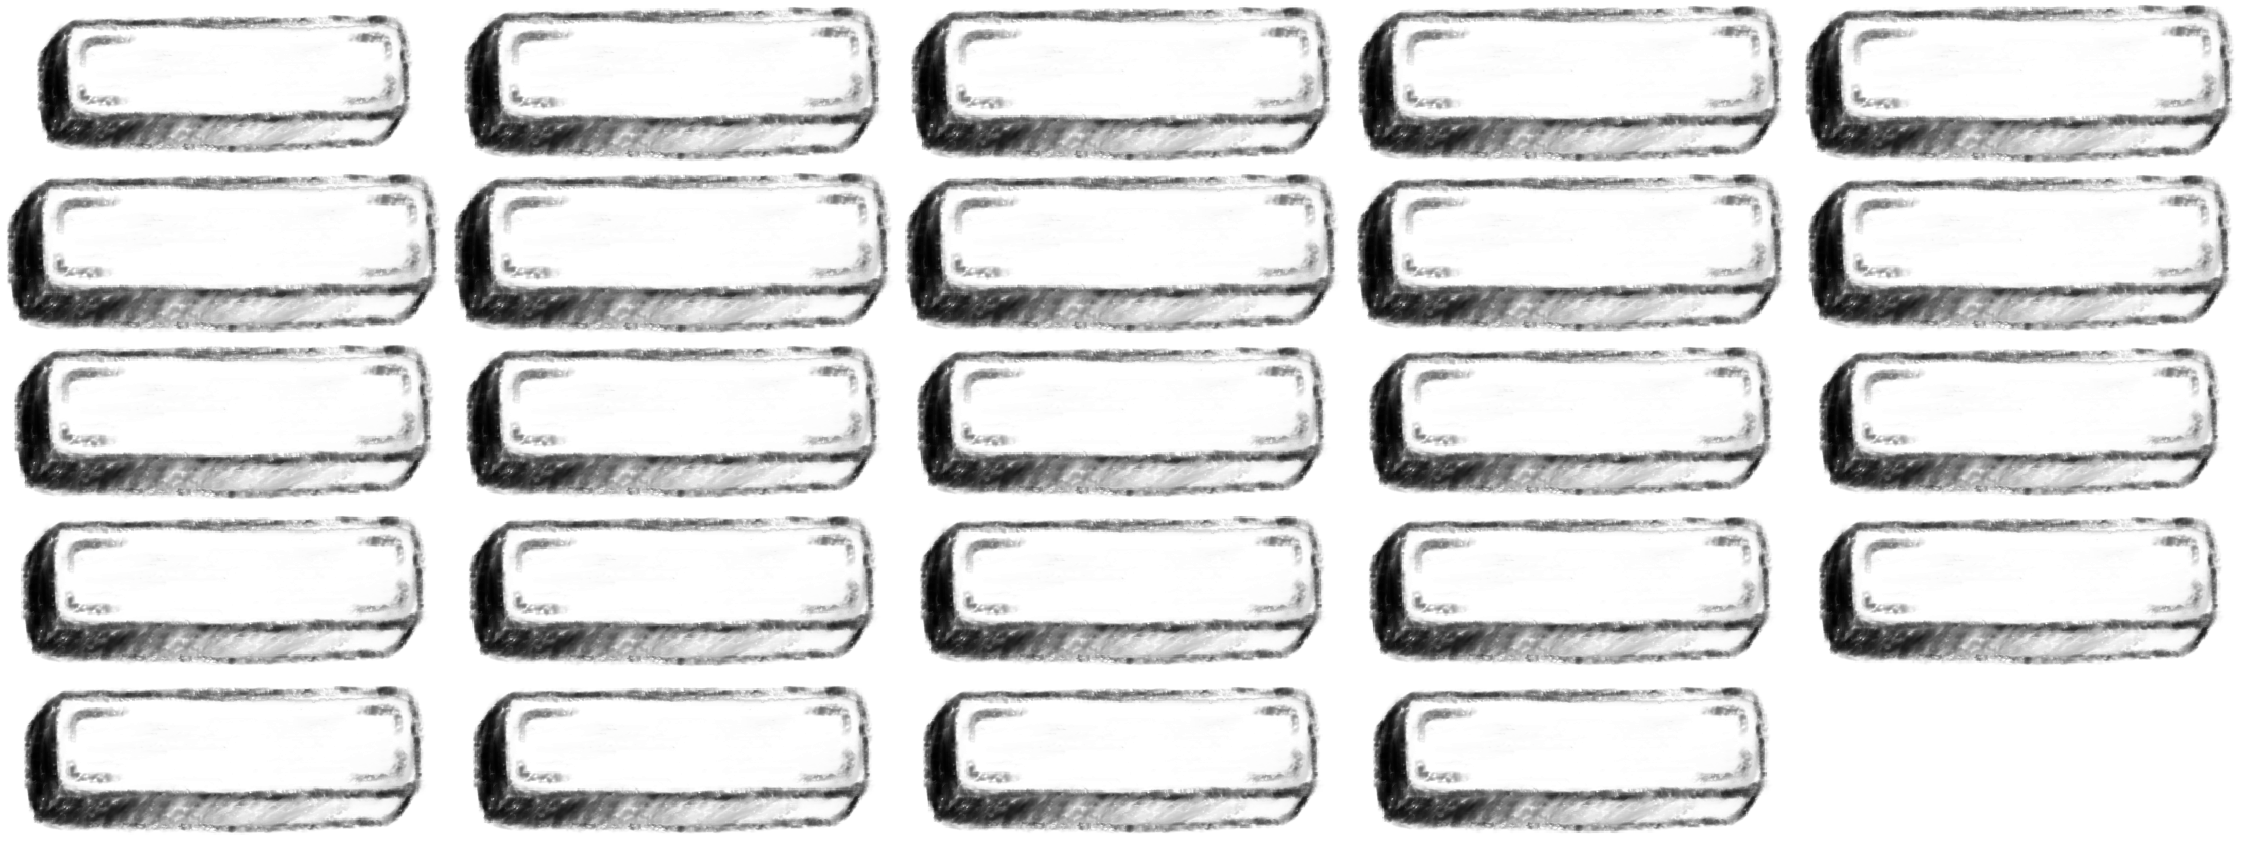
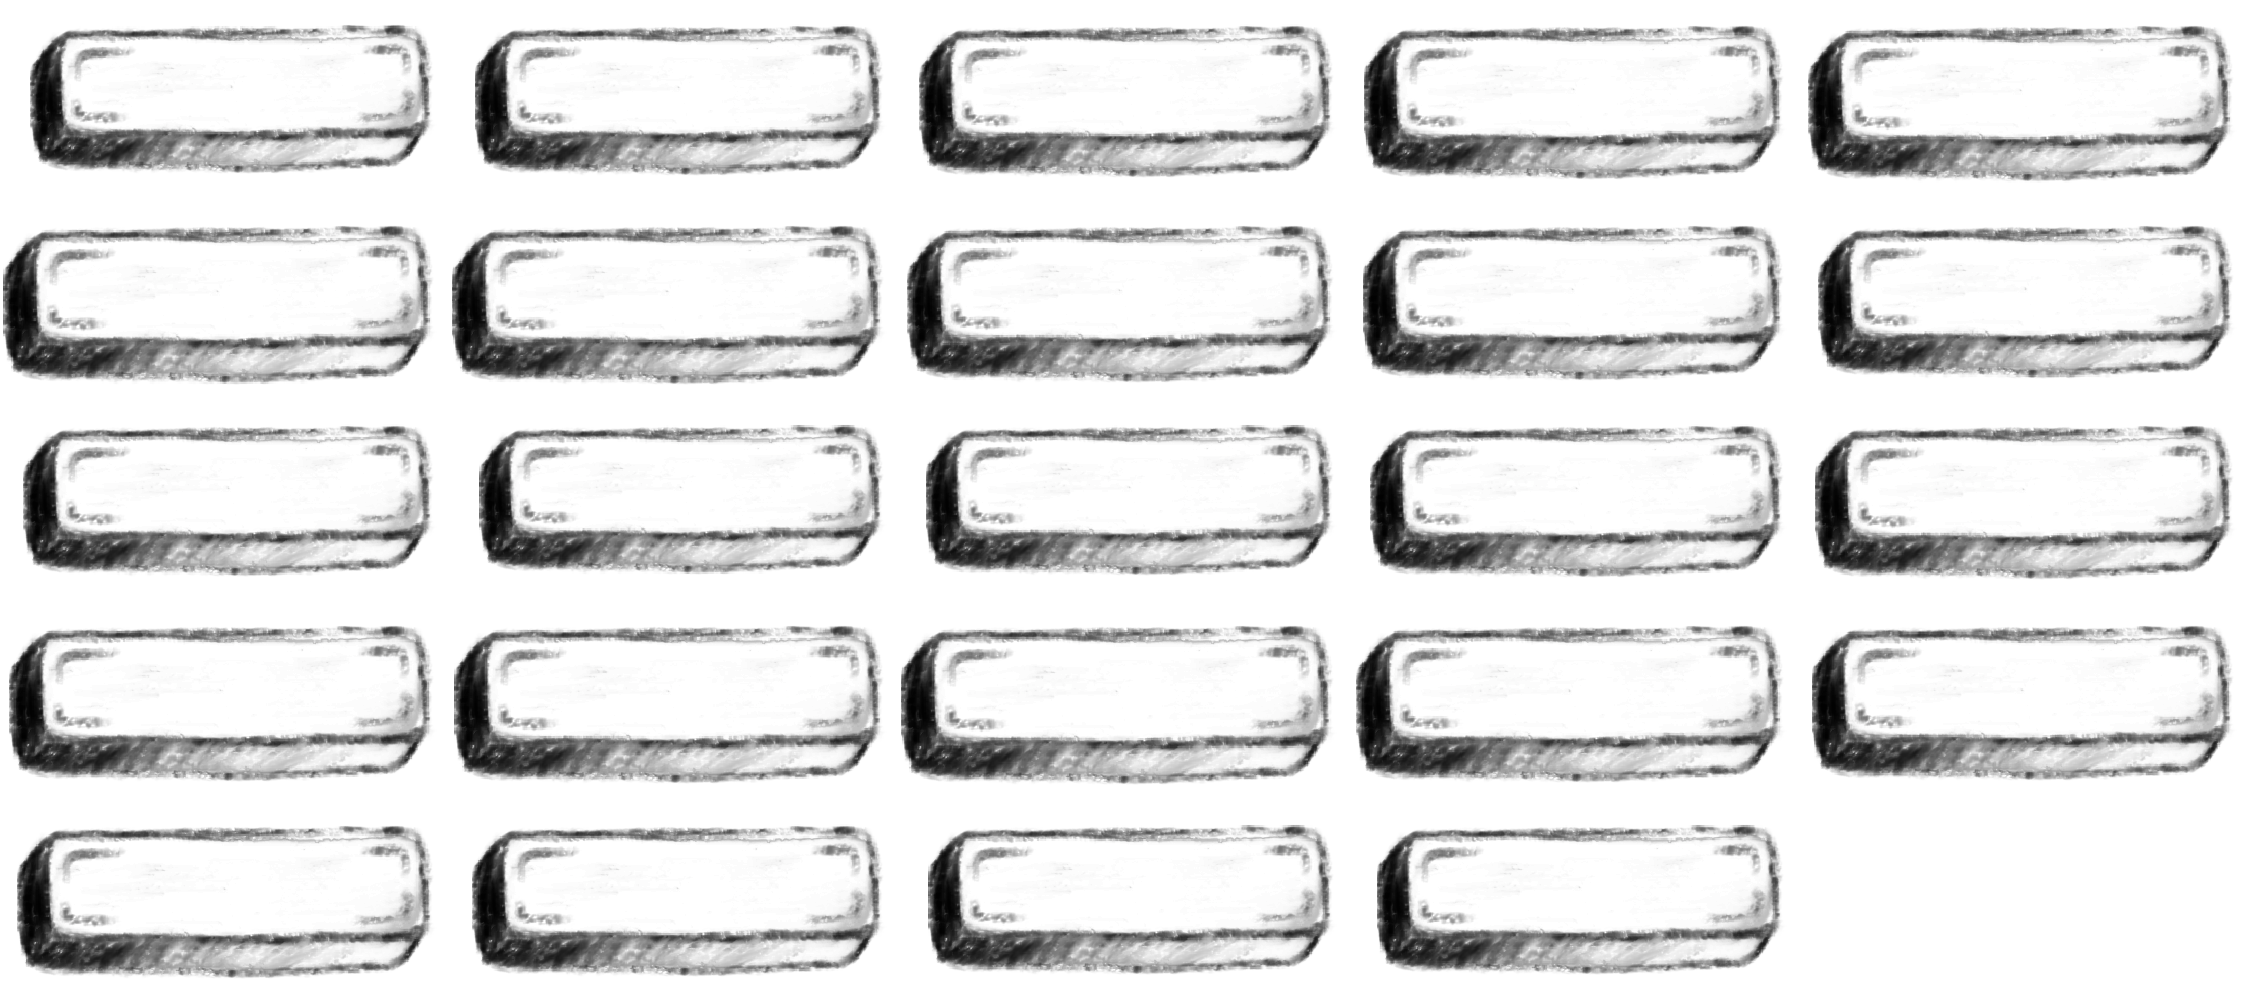
swapped button animation

diff --git a/src/scenes/MainMenu.js b/src/scenes/MainMenu.js
@@ -20,19 +20,18 @@ export class MainMenu extends Scene {
       .setOrigin(0.5);
 
     this.add
-      .text(screenCenterX, 80, "TypeFighter", {
-        fontFamily: "Arial Black",
-        fontSize: 56,
+      .text(screenCenterX, 200, "TypeFighter ", {
+        fontFamily: "Caveat",
+        fontSize: 200,
         color: "#ffffff",
         stroke: "#000000",
         strokeThickness: 40,
-        align: "left",
+        align: "center",
       })
-      .setOrigin(0);
+      .setOrigin(0.5);
 
     // this.add.image(512, 300, "logo");
 
-    var style = { font: "24px Arial", fill: "#ffffff", align: "center" };
 
     this.createButton(
       screenCenterX,
@@ -66,7 +65,7 @@ export class MainMenu extends Scene {
       key: "on_button_hover",
       frames: this.anims.generateFrameNumbers("button", {
         start: 0,
-        end: 14,
+        end: 6,
         first: 0,
       }),
       frameRate: 24,

diff --git a/src/scenes/Preloader.js b/src/scenes/Preloader.js
@@ -30,8 +30,8 @@ export class Preloader extends Scene {
 
     this.load.image("logo", "logo.png");
     this.load.spritesheet("button", "button/button_hover.png", {
-      frameWidth: 449,
-      frameHeight: 169,
+      frameWidth: 450,
+      frameHeight: 200,
     });
     // this.load.image("button", "/button/button_init.png");
     this.load.addFile(new WebFontFile(this.load, "Caveat"));
